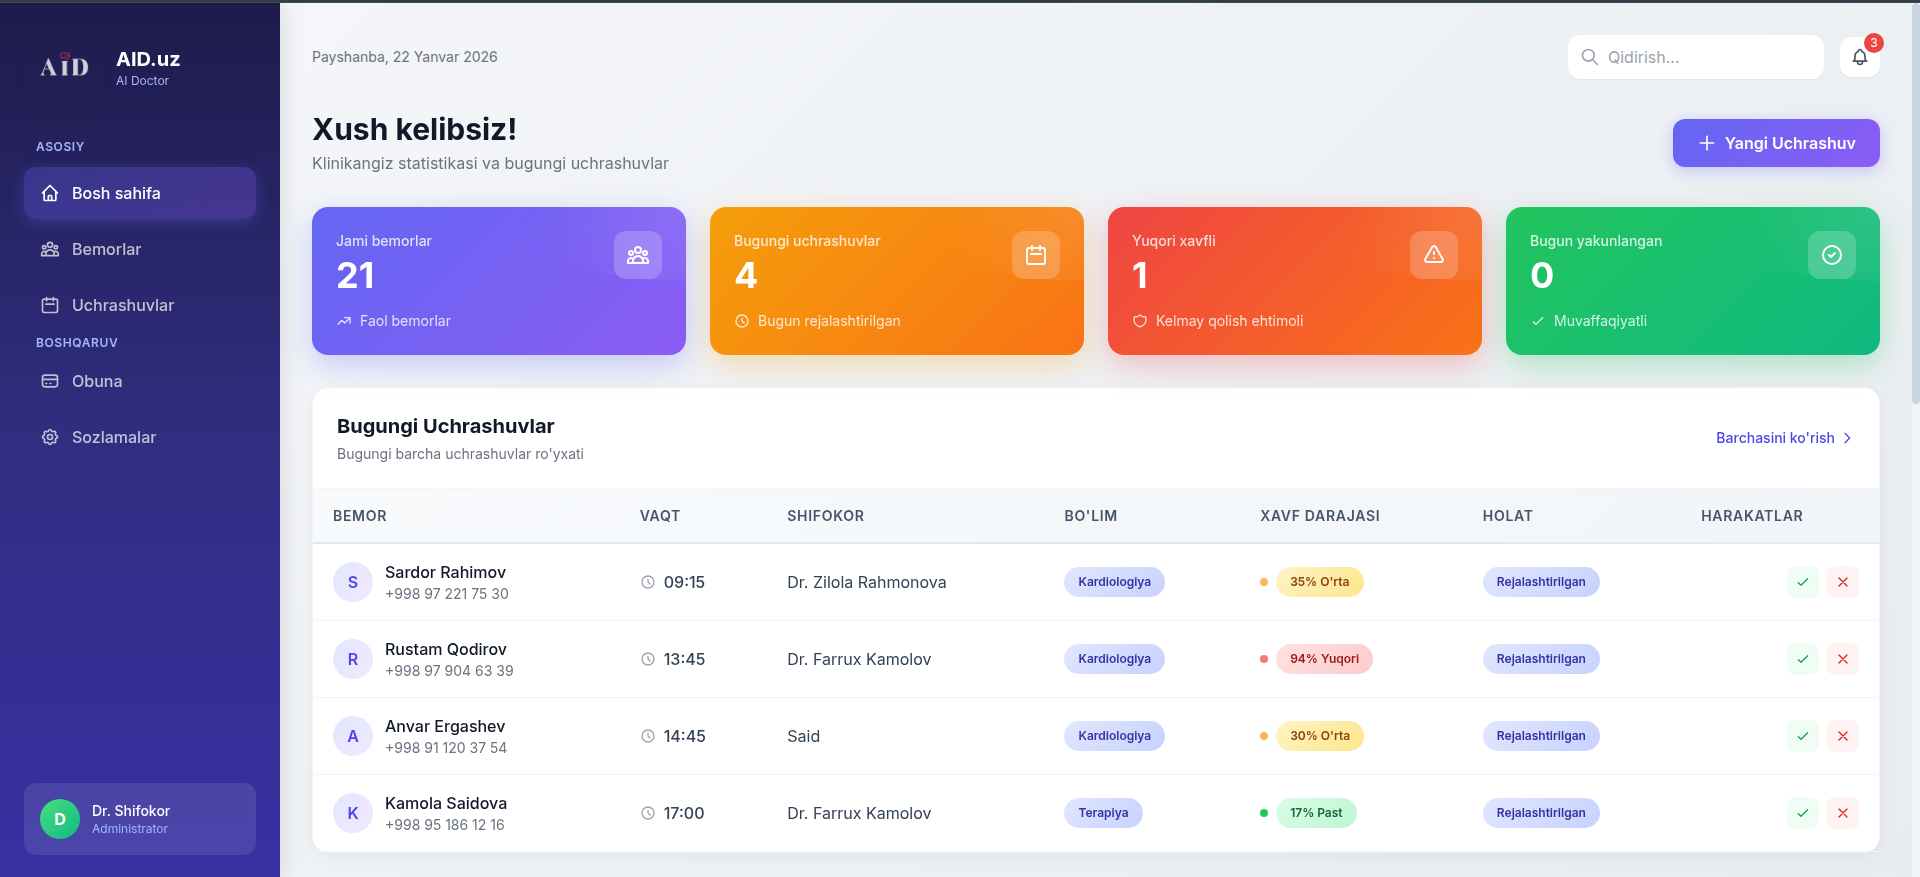
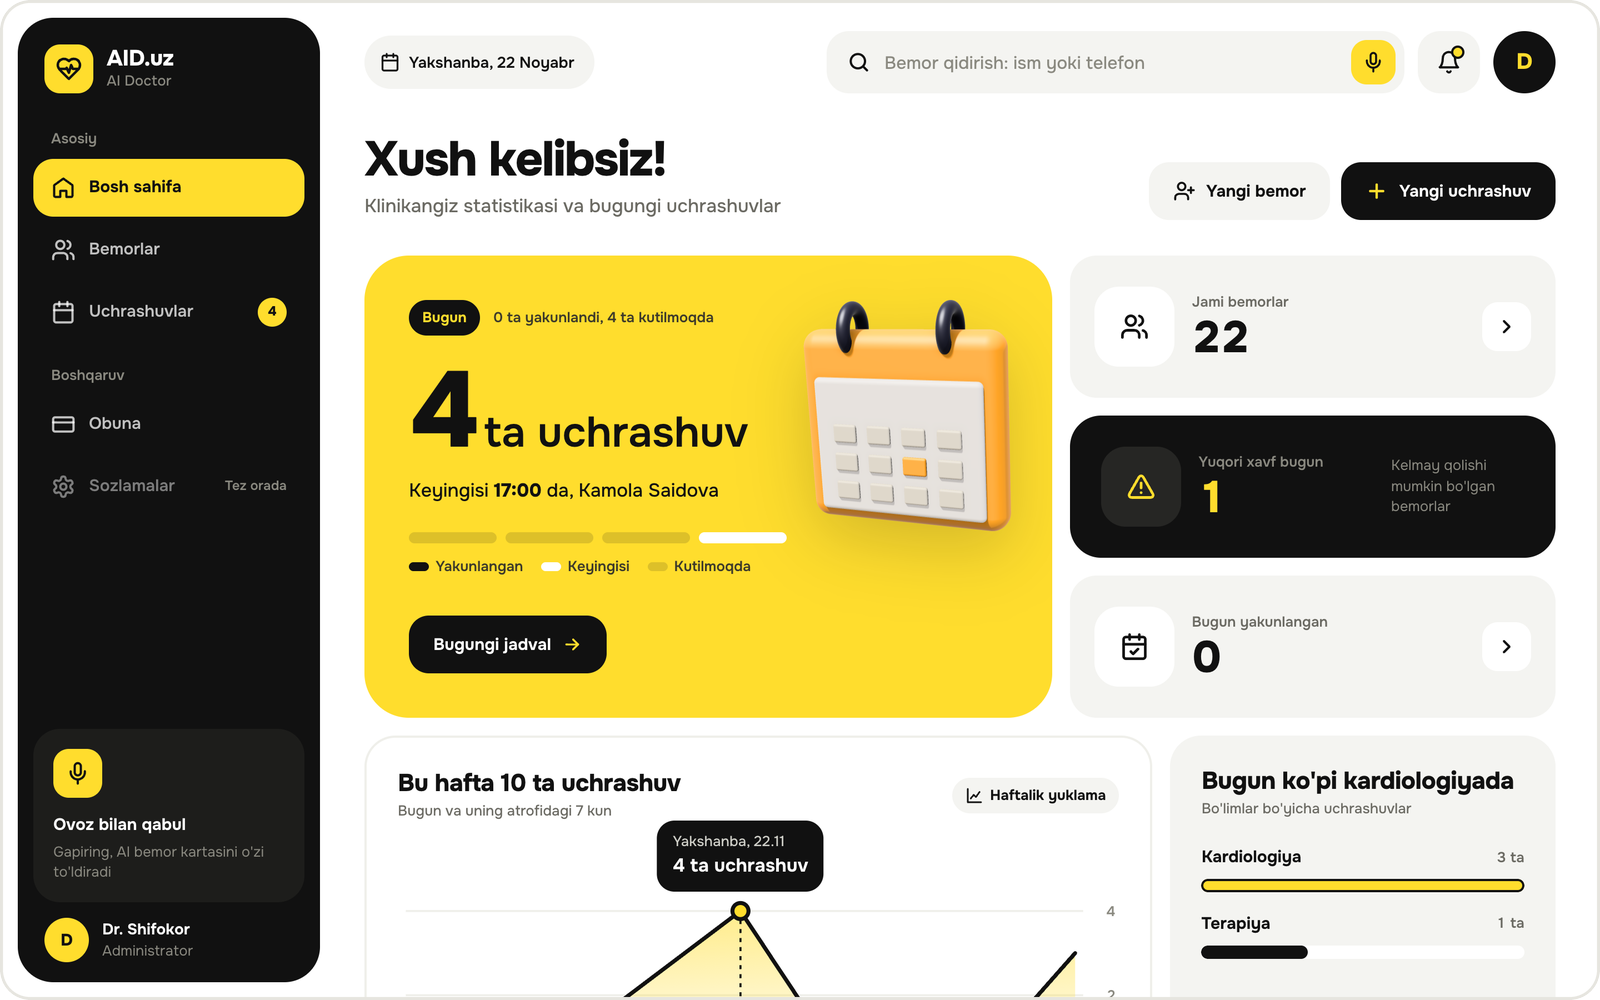
[readme_images][readme] updated screenshots and shortened readme

diff --git a/README.md b/README.md
@@ -1,50 +1,26 @@
-# AID.uz - AI Doctor
+![AID.uz](readme_images/banner.png)
 
-O'zbekiston kasalxonalari uchun AI bilan ishlaydigan bemor boshqaruv tizimi.
+Klinikalar uchun AI yordamchi CRM. Shifokor gapiradi, AI bemor kartasini to'ldiradi va qand, yurak kasalligi hamda kelmay qolish xavfini oldindan aytadi.
 
-## Nima qiladi?
+![Bosh sahifa](readme_images/1.png)
 
-- Bemorlarni ro'yxatga olish va boshqarish
-- Uchrashuvlarni rejalashtirish
-- AI orqali qand va yurak kasalligi xavfini aniqlash
-- Ovozli ma'lumot kiritish (ElevenLabs)
+| | |
+|---|---|
+| ![Bemorlar](readme_images/2.png) | ![Bemor kartasi](readme_images/3.png) |
+| ![Ovoz bilan yangi bemor](readme_images/4.png) | ![Protokol va AI bashorat](readme_images/5.png) |
+| ![Uchrashuvlar](readme_images/6.png) | ![Obuna](readme_images/7.png) |
+
+![Mobil versiya](readme_images/mobile.png)
 
 ## Ishga tushirish
 
 ```bash
-# Virtual muhit
-python3 -m venv venv
-source venv/bin/activate
-
-# Paketlar
+python3 -m venv venv && source venv/bin/activate
 pip install -r requirements.txt
-
-# Bazani yaratish
 python3 manage.py migrate
-
-# Serverni ishga tushirish
 python3 manage.py runserver
 ```
 
-Brauzerda ochish: http://localhost:8000/home/
+Brauzerda: http://localhost:8000
 
-## Texnologiyalar
-
-- Django 5.0
-- scikit-learn (ML modellari)
-- Tailwind CSS
-- OpenAI, ElevenLabs
-
-## Jamoa
-
-AI Hackathon 2026
-
-## Skrinshotlar
-
-![1](readme_images/1.png)
-
-![2](readme_images/2.png)
-
-![3](readme_images/3.png)
-
-![4](readme_images/4.png)
+Django, scikit-learn, OpenAI, ElevenLabs. AI Hackathon 2026.
